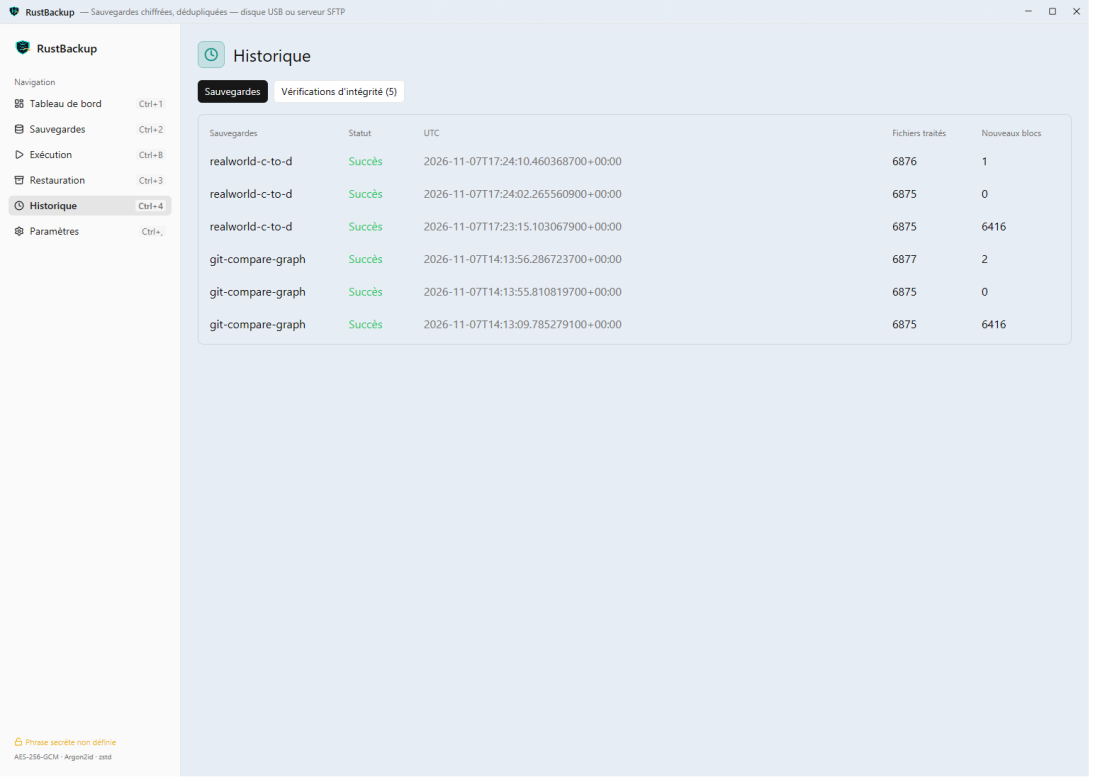
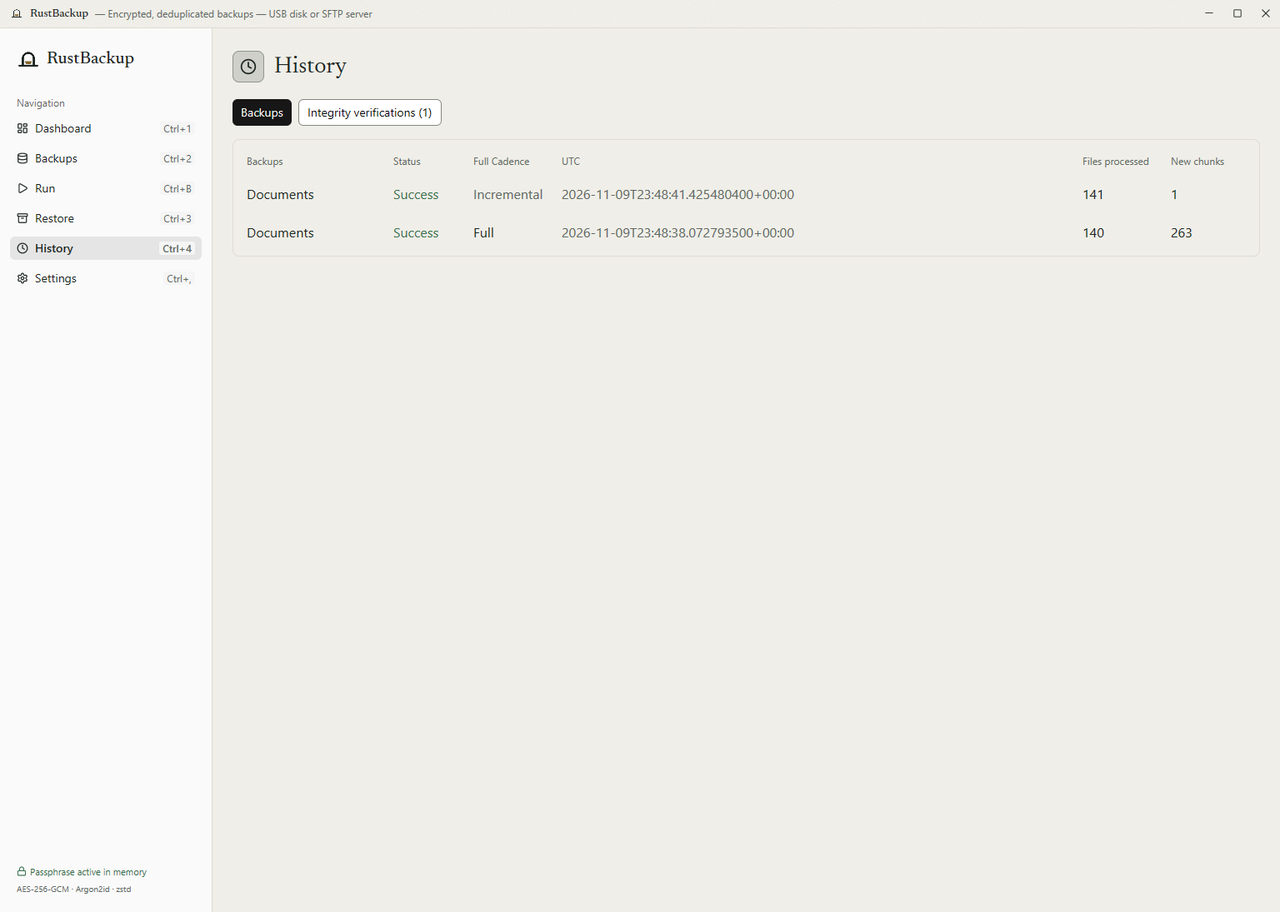
docs(readme): Arche screenshots in English, restore benchmark
New screenshots and walkthrough GIF of the Arche GUI (English UI, light
and dark, throwaway demo catalog), Arche logo with a dark-mode variant,
repository format v2 and fast restore in the feature list, SFTP restore
benchmark (105 s -> 15 s on 4 000 files), stale claims removed (120 FPS,
steel-blue theme, v1 format).

diff --git a/README.md b/README.md
@@ -1,5 +1,8 @@
 <p align="center">
-  <img src="assets/brand-mark.svg" width="128" height="128" alt="RustBackup Logo" />
+  <picture>
+    <source media="(prefers-color-scheme: dark)" srcset="assets/brand/mark-dark.svg" />
+    <img src="assets/brand/mark-light.svg" width="112" height="112" alt="RustBackup mark: an arch sheltering a brass hull" />
+  </picture>
 </p>
 
 <h1 align="center">RustBackup</h1>
@@ -10,7 +13,7 @@
 
 <p align="center">
   <img src="https://img.shields.io/badge/Rust-2024_Edition-orange?logo=rust" alt="Rust Edition 2024" />
-  <img src="https://img.shields.io/badge/GUI-GPUI_Kit_0.9.0-0B8F80?logo=rust" alt="GPUI Kit 0.9.0" />
+  <img src="https://img.shields.io/badge/GUI-GPUI_Kit_0.9.0-82642B?logo=rust" alt="GPUI Kit 0.9.0" />
   <img src="https://img.shields.io/badge/Crypto-AES--256--GCM_%2B_Argon2id-14E0C8" alt="Crypto" />
   <img src="https://img.shields.io/badge/Chunking-FastCDC_v2020-blue" alt="FastCDC" />
   <img src="https://img.shields.io/badge/Catalog-DuckDB-FFF000?logo=duckdb" alt="DuckDB" />
@@ -40,15 +43,15 @@ Whether backing up directly to external USB drives, local NVMe volumes, or offsi
   Content-defined chunking with **FastCDC v2020** (256 KiB / 1 MiB / 4 MiB) combined with **BLAKE3** content addressing. A second run against an unchanged directory stores **zero new bytes** in fractions of a second. Automatically schedules a Full backup after $X$ incremental backups (default: 10, configurable per job or set to 0 to disable), or force a Full backup on demand at any time (`--full` or GUI toggle).
 - **Encrypt-Then-Store AEAD Cryptography**  
   Each chunk is compressed with **zstd**, then sealed using **AES-256-GCM** with a fresh 96-bit random nonce. Associated data strictly binds `BLAKE3(plaintext) || plain_len` to prevent chunk-swapping or truncation attacks. The 256-bit master key is encrypted via **Argon2id** (64 MiB, $t=3$, $p=4$) and zeroized in memory on drop.
-- **Self-Contained Repository Format (v1)**  
-  Contains `config.json`, `keys/`, `chunks/`, and `snapshots/`. Restoring or verifying data requires **only the repository and passphrase** — zero dependence on the local database.
+- **Self-Contained Repository Format (v2, pack files)**  
+  Contains `config.json`, `keys/`, `packs/` (~16 MiB pack files), `index/` and `snapshots/`; v1 repositories (one file per chunk) stay readable. Restoring or verifying data requires **only the repository and passphrase** — zero dependence on the local database.
 - **Dual Storage Backends**  
   - **Local Filesystems**: USB drives, external SSDs, internal mount points.
   - **Remote SFTP**: Linux servers via `russh` & `russh-sftp` using SSH public-key authentication (OpenSSH / PEM, passphrase-protected keys, and TOFU host-key pinning).
 - **Atomic Operations by Design**  
   All chunks and manifests land via temporary files and atomic rename. Interrupted or killed runs never produce a corrupted snapshot. Source files are opened read-only and **never modified or deleted**.
-- **Partial & Granular Restores**  
-  Restore single files or entire directory subtrees to their original paths or a custom destination, with hierarchical tree browsing, skip/overwrite policies, and exact modification time (`mtime`) restoration.
+- **Partial & Granular Restores, Fast over SFTP**  
+  Restore single files or entire directory subtrees to their original paths or a custom destination, with hierarchical tree browsing, skip/overwrite policies, and exact modification time (`mtime`) restoration. The restore is plan-driven: each pack is read once with exact, coalesced byte-range reads, every chunk is authenticated and BLAKE3-checked, and files are written in parallel with live progress (files/s, MiB/s, time left).
 - **Dual-Depth Integrity Verification**  
   - **Quick**: Validates manifest cryptographic authentication and referenced chunk presence.
   - **Full**: Reads, decrypts, and re-computes BLAKE3 hashes for every chunk to detect silent bit rot.
@@ -58,26 +61,30 @@ Whether backing up directly to external USB drives, local NVMe volumes, or offsi
   Prevents conflicting concurrent backups or maintenance runs across processes or threads via atomic JSON locks (`locks/<id>.json`) with automatic release on drop and stale-lock recovery.
 - **Local DuckDB Tracking Catalog**  
   High-performance local embedded database tracking jobs, execution statistics, snapshot metadata, and verification history.
-- **Hardware-Accelerated Native GUI**  
-  Built with **GPUI Kit 0.9.0**, rendering at 120 FPS with minimal memory overhead, bilingual French (default) / English interface, keyboard shortcuts (`Ctrl+1..4`, `Ctrl+B`, `Ctrl+,`), and steel-blue / dark theme support.
+- **Native GPU-Rendered GUI, "Arche" Design**  
+  Built with **GPUI Kit 0.9.0**: bilingual French (default) / English interface, keyboard shortcuts (`Ctrl+1..4`, `Ctrl+B`, `Ctrl+,`), and the Arche visual identity — limestone, ink and brass palettes in light and dark themes (WCAG 2.2 AA contrast checked by unit tests), the Newsreader display serif and an arch mark. See [`docs/design/DESIGN_SYSTEM.md`](docs/design/DESIGN_SYSTEM.md).
 
 ---
 
 ## 🖼 Application Preview
 
 <p align="center">
-  <img src="assets/screenshots/rustbackup-walkthrough.gif" alt="RustBackup Native GPUI Walkthrough" width="90%" />
+  <img src="assets/screenshots/rustbackup-walkthrough.gif" alt="RustBackup walkthrough: dashboard, backups, restore, history, settings, dark theme" width="90%" />
 </p>
 
-### 📸 Native GPUI Interface Views
+### 📸 Interface Views (Arche design, English UI, demo data)
 
-| **Dashboard (Protected Volumes & Stats)** | **Backup Jobs & Destination Config** |
+| **Dashboard** | **Backup Jobs (local USB and SFTP)** |
 | :---: | :---: |
-| ![Dashboard](assets/screenshots/01-dashboard.png) | ![Jobs](assets/screenshots/02-jobs.png) |
-| **Granular Restore & Prune Maintenance** | **Execution & Verification History** |
+| ![Dashboard](assets/screenshots/01-dashboard.png) | ![Backup jobs](assets/screenshots/02-jobs.png) |
+| **Restore: snapshot list and file tree** | **Backup & Verification History** |
 | ![Restore](assets/screenshots/04-restore.png) | ![History](assets/screenshots/05-history.png) |
-| **Settings & Bilingual Switch (FR/EN)** | **Dark Mode & Hardware Acceleration** |
-| ![Settings](assets/screenshots/06-settings.png) | ![Dark Mode](assets/screenshots/08-dashboard-dark.png) |
+| **Settings: language, theme, passphrase** | **Dark Theme** |
+| ![Settings](assets/screenshots/06-settings.png) | ![Dark theme dashboard](assets/screenshots/08-dashboard-dark.png) |
+| **Restore in the Dark Theme** | |
+| ![Dark theme restore](assets/screenshots/07-restore-dark.png) | |
+
+*Screenshots use a throwaway demo catalog (`RBACKUP_DB` points the GUI at any catalog file, like the CLI's `--db`).*
 
 ---
 
@@ -131,6 +138,24 @@ forces it — see `docs/REPO_FORMAT.md`). `RBACKUP_UPLOAD_WORKERS` is clamped to
 `RBACKUP_SFTP_WRITERS=channel` puts the writers back on one shared connection (then
 OpenSSH's `MaxSessions`, default 10, caps them). `RBACKUP_PROFILE=1` prints per-stage
 timings at the end of a run.
+
+### ♻ SFTP Restore Throughput (same LAN server)
+
+*Full restore of each corpus from the pack repository; every restored tree compared byte for byte
+with the source (`diff -r`):*
+
+| Corpus | Per-chunk range reads (before) | Plan-driven restore (now) |
+| :-- | :--- | :--- |
+| 4 000 files, 4-128 KiB (256 MiB) | 105.4 s | **15.0 s** |
+| 800 files, 8-32 KiB (16 MiB) | 22.0 s | **2.6 s** |
+| Mixed: 4 × 256 MiB + 800 small files (1.04 GiB) | 254.2 s | **56.5 s** |
+
+Before, every chunk cost an SFTP open + seek + read + close, one after another, and the SFTP
+client's read-ahead pulled about twice the requested bytes. Now the restore plans all
+needed chunks per pack, reads each pack once through exact pipelined requests (no read-ahead past
+the range) on dedicated reader connections (`RBACKUP_SFTP_READERS`, default 4), and writes each
+chunk at its offset in every file that needs it (`RBACKUP_RESTORE_WORKERS`, default 4). Restored
+files still land via temp name + atomic rename.
 
 ---
 
